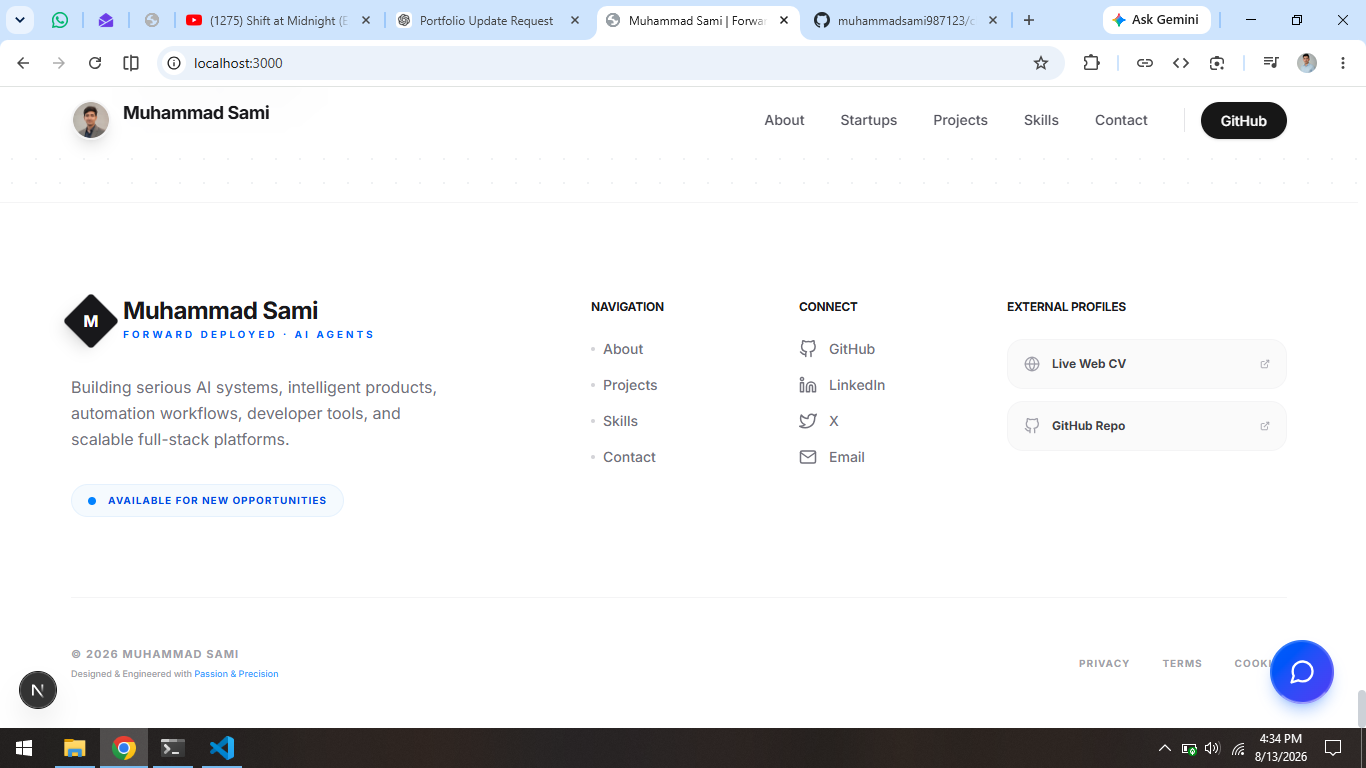
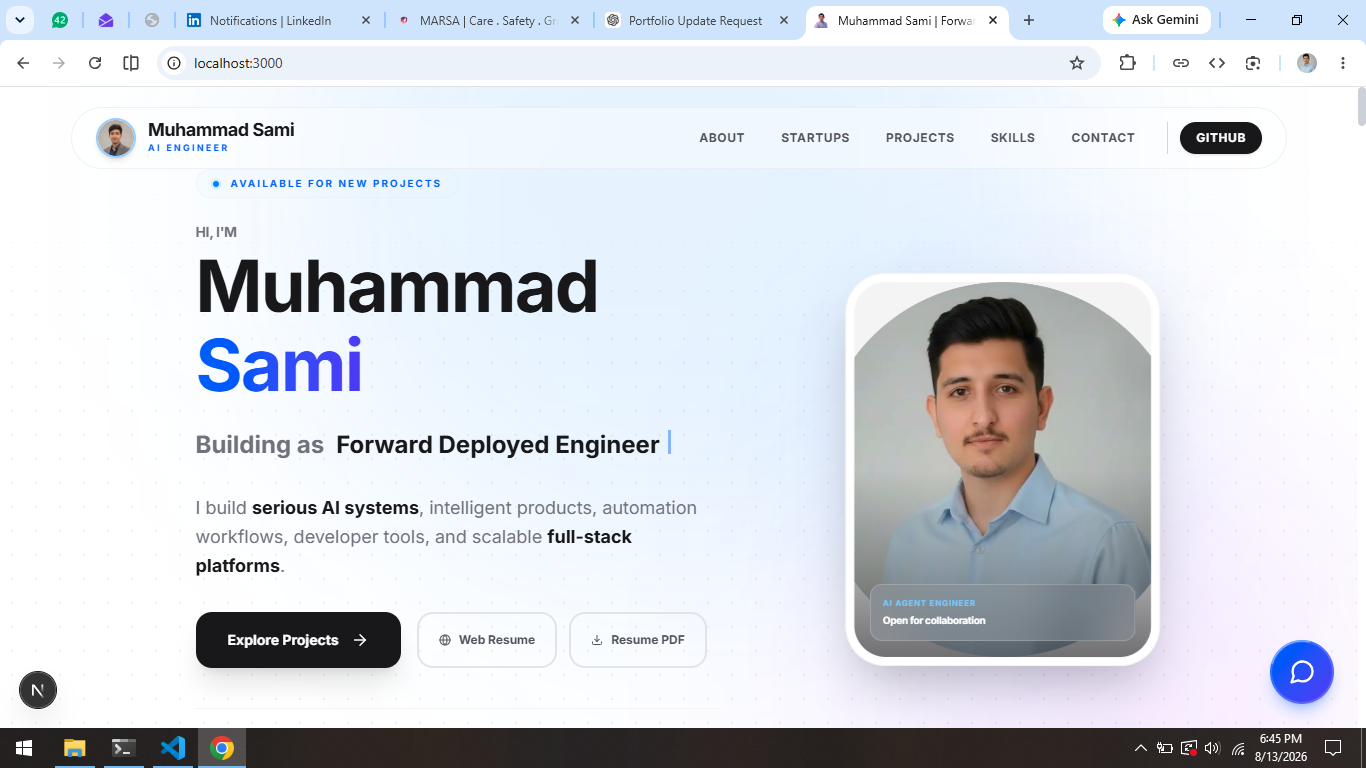
style: adjust padding and layout in About, Hero, and Services components for improved visual consistency

diff --git a/src/components/Hero.tsx b/src/components/Hero.tsx
@@ -124,20 +124,20 @@ export default function Hero() {
             </p>
 
             {/* Actions */}
-            <div className="flex flex-col sm:flex-row items-center gap-4 justify-center lg:justify-start mb-10">
-              <Link href="#projects" className="w-full sm:w-auto">
-                <button className="w-full sm:w-auto h-12 lg:h-14 px-8 bg-zinc-900 dark:bg-white text-white dark:text-zinc-900 font-bold rounded-2xl hover:scale-[1.02] active:scale-[0.98] transition-all shadow-xl flex items-center justify-center gap-3">
-                  Explore Projects <FiArrowRight size={18} />
+            <div className="flex flex-wrap items-center gap-3 sm:gap-4 justify-center lg:justify-start mb-10">
+              <Link href="#projects" className="shrink-0">
+                <button className="h-12 lg:h-14 px-6 sm:px-8 bg-zinc-900 dark:bg-white text-white dark:text-zinc-900 font-bold rounded-2xl hover:scale-[1.02] active:scale-[0.98] transition-all shadow-xl flex items-center justify-center gap-2 sm:gap-3 whitespace-nowrap text-sm">
+                  Explore Projects <FiArrowRight size={18} className="shrink-0" />
                 </button>
               </Link>
-              <div className="flex gap-3 w-full sm:w-auto">
-                <a href="https://muhammad-sami-resume.vercel.app/" target="_blank" className="flex-1 sm:flex-none">
-                  <button className="w-full h-12 lg:h-14 px-5 border-2 border-zinc-200 dark:border-zinc-800 text-zinc-600 dark:text-zinc-400 font-bold rounded-2xl hover:bg-zinc-50 dark:hover:bg-zinc-800 transition-all flex items-center justify-center gap-2 text-xs">
+              <div className="flex gap-2 sm:gap-3 shrink-0">
+                <a href="https://muhammad-sami-resume.vercel.app/" target="_blank" className="shrink-0">
+                  <button className="h-12 lg:h-14 px-4 sm:px-5 border-2 border-zinc-200 dark:border-zinc-800 text-zinc-600 dark:text-zinc-400 font-bold rounded-2xl hover:bg-zinc-50 dark:hover:bg-zinc-800 transition-all flex items-center justify-center gap-2 text-xs whitespace-nowrap">
                     <FiGlobe /> Web Resume
                   </button>
                 </a>
-                <a href="/new-resume.pdf" target="_blank" className="flex-1 sm:flex-none">
-                  <button className="w-full h-12 lg:h-14 px-5 border-2 border-zinc-200 dark:border-zinc-800 text-zinc-600 dark:text-zinc-400 font-bold rounded-2xl hover:bg-zinc-50 dark:hover:bg-zinc-800 transition-all flex items-center justify-center gap-2 text-xs">
+                <a href="/new-resume.pdf" target="_blank" className="shrink-0">
+                  <button className="h-12 lg:h-14 px-4 sm:px-5 border-2 border-zinc-200 dark:border-zinc-800 text-zinc-600 dark:text-zinc-400 font-bold rounded-2xl hover:bg-zinc-50 dark:hover:bg-zinc-800 transition-all flex items-center justify-center gap-2 text-xs whitespace-nowrap">
                     <FiDownload /> Resume PDF
                   </button>
                 </a>

diff --git a/src/components/Services.tsx b/src/components/Services.tsx
@@ -98,7 +98,7 @@ const getColorClasses = (color: string) => {
 
 export default function Services() {
     return (
-        <section className="py-14 sm:py-20 lg:py-28 relative overflow-hidden bg-white dark:bg-zinc-950">
+        <section className="pt-8 sm:pt-12 lg:pt-16 pb-14 sm:pb-20 lg:pb-28 relative overflow-hidden bg-white dark:bg-zinc-950">
             {/* Background Elements */}
             <div className="absolute top-0 left-1/2 -translate-x-1/2 w-full h-full max-w-7xl pointer-events-none">
                 <div className="absolute top-[20%] right-0 w-[300px] sm:w-[500px] h-[300px] sm:h-[500px] bg-blue-500/5 rounded-full blur-[100px]" />

diff --git a/src/app/About/page.tsx b/src/app/About/page.tsx
@@ -412,7 +412,7 @@ export default function About() {
   };
 
   return (
-    <Background className="py-12 sm:py-20 lg:py-32">
+    <Background className="py-12 sm:py-16 lg:py-20">
       <div className="max-w-7xl mx-auto px-4 sm:px-6 lg:px-8">
         <motion.div
           initial={{ opacity: 0, y: 20 }}
